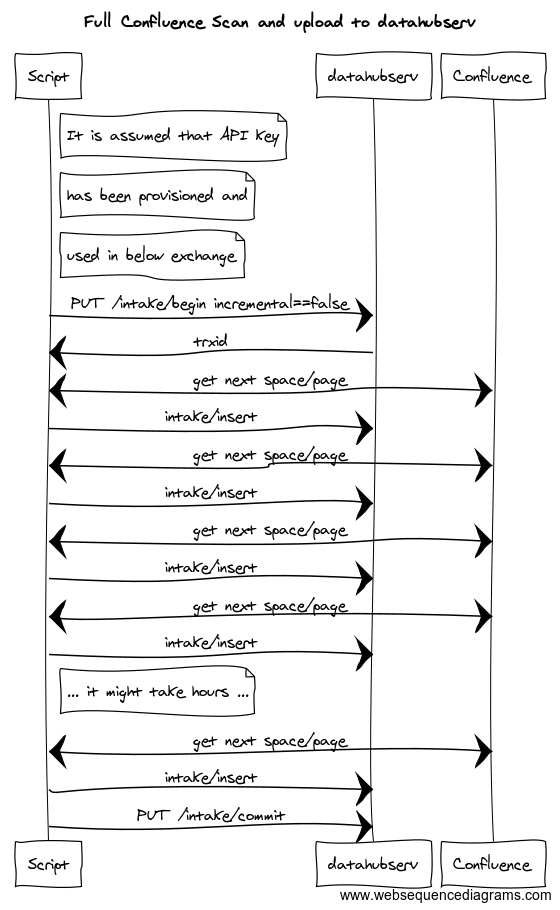
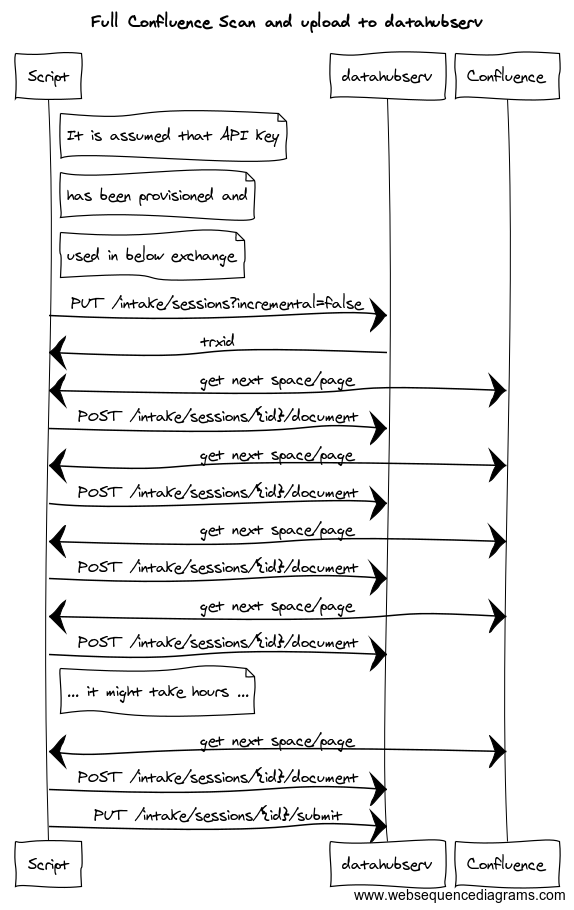
first review

diff --git a/docs/genseqdia.py b/docs/genseqdia.py
@@ -50,14 +50,25 @@ end
 """
 
 
-createUser = """
+createAPIKey = """
 title SSO based/Create API key
 
-WebBrowser->datahubserv: PUT /access/user
-note right of WebBrowser: this is one time provisioning
+WebBrowser->datahubserv: GET /access/apikey
+note right of WebBrowser: this is one time API key request
+datahubserv->SSO: SAML2.0 Auth Request/redirect
 WebBrowser->SSO: credentials
-SSO->WebBrowser: SAML2.0
-datahubserv->WebBrowser: "API key, expiration"
+SSO->WebBrowser: SAML2.0 encrypted token
+datahubserv->WebBrowser: "Authorization header"
+"""
+createApplication = """
+title data intake source registration request
+
+WebBrowser->datahubserv: PUT /access/intake/applications
+note right of WebBrowser: this is one time application provisioning
+WebBrowser->datahubserv: GET /access/applications/{id}
+WebBrowser->datahubserv: GET /access/applications/{id}
+note right of WebBrowser: polling request status
+WebBrowser->datahubserv: GET /access/applications/{id}
 """
 
 fullScan = """
@@ -65,20 +76,20 @@ title Full Confluence Scan and upload to datahubserv
 note right of Script: It is assumed that API key
 note right of Script: has been provisioned and
 note right of Script: used in below exchange
-Script->datahubserv: PUT /intake/begin, incremental==false
+Script->datahubserv: PUT /intake/sessions?incremental=false
 datahubserv->Script: trxid
 Script<->Confluence: get next space/page
-Script->datahubserv: intake/insert
+Script->datahubserv: POST /intake/sessions/{id}/document
 Confluence<->Script: get next space/page
-Script->datahubserv: intake/insert
+Script->datahubserv: POST /intake/sessions/{id}/document
 Confluence<->Script: get next space/page
-Script->datahubserv: intake/insert
+Script->datahubserv: POST /intake/sessions/{id}/document
 Confluence<->Script: get next space/page
-Script->datahubserv: intake/insert
+Script->datahubserv: POST /intake/sessions/{id}/document
 note right of Script: ... it might take hours ...
 Confluence<->Script: get next space/page
-Script->datahubserv: intake/insert
-Script->datahubserv: PUT /intake/commit
+Script->datahubserv: POST /intake/sessions/{id}/document
+Script->datahubserv: PUT /intake/sessions/{id}/submit
 """
 
 incrementalScan = """
@@ -86,20 +97,21 @@ title Incremental Confluence Scan and upload to datahubserv
 note right of Script: It is assumed that API key
 note right of Script: has been provisioned and
 note right of Script: used in below exchange
-Script->datahubserv: PUT /intake/begin, incremental==true
+Script->datahubserv: PUT /intake/sessions?incremental=true
 datahubserv->Script: trxid, time segments
 Script<->Confluence: get list of updated pages for given time segment
 Confluence<->Script: get next page
-Script->datahubserv: intake/insert
+Script->datahubserv: POST /intake/sessions/{id}/document
 Confluence<->Script: get next page
-Script->datahubserv: intake/insert
+Script->datahubserv: POST /intake/sessions/{id}/document
 note right of Script: ... it usually takes 15 minutes to complete one update
 Confluence<->Script: get next page
-Script->datahubserv: intake/insert
-Script->datahubserv: PUT /intake/commit
+Script->datahubserv: POST /intake/sessions/{id}/document
+Script->datahubserv: PUT /intake/sessions/{id}/submit
 """
 
 #getSequenceDiagram(demo, "demo.png")
-getSequenceDiagram(createUser, "create-user.png")
+getSequenceDiagram(createAPIKey, "create-apikey.png")
+getSequenceDiagram(createApplication, "create-application.png")
 getSequenceDiagram(fullScan, "full-scan.png")
 getSequenceDiagram(incrementalScan, "incremental-scan.png")
